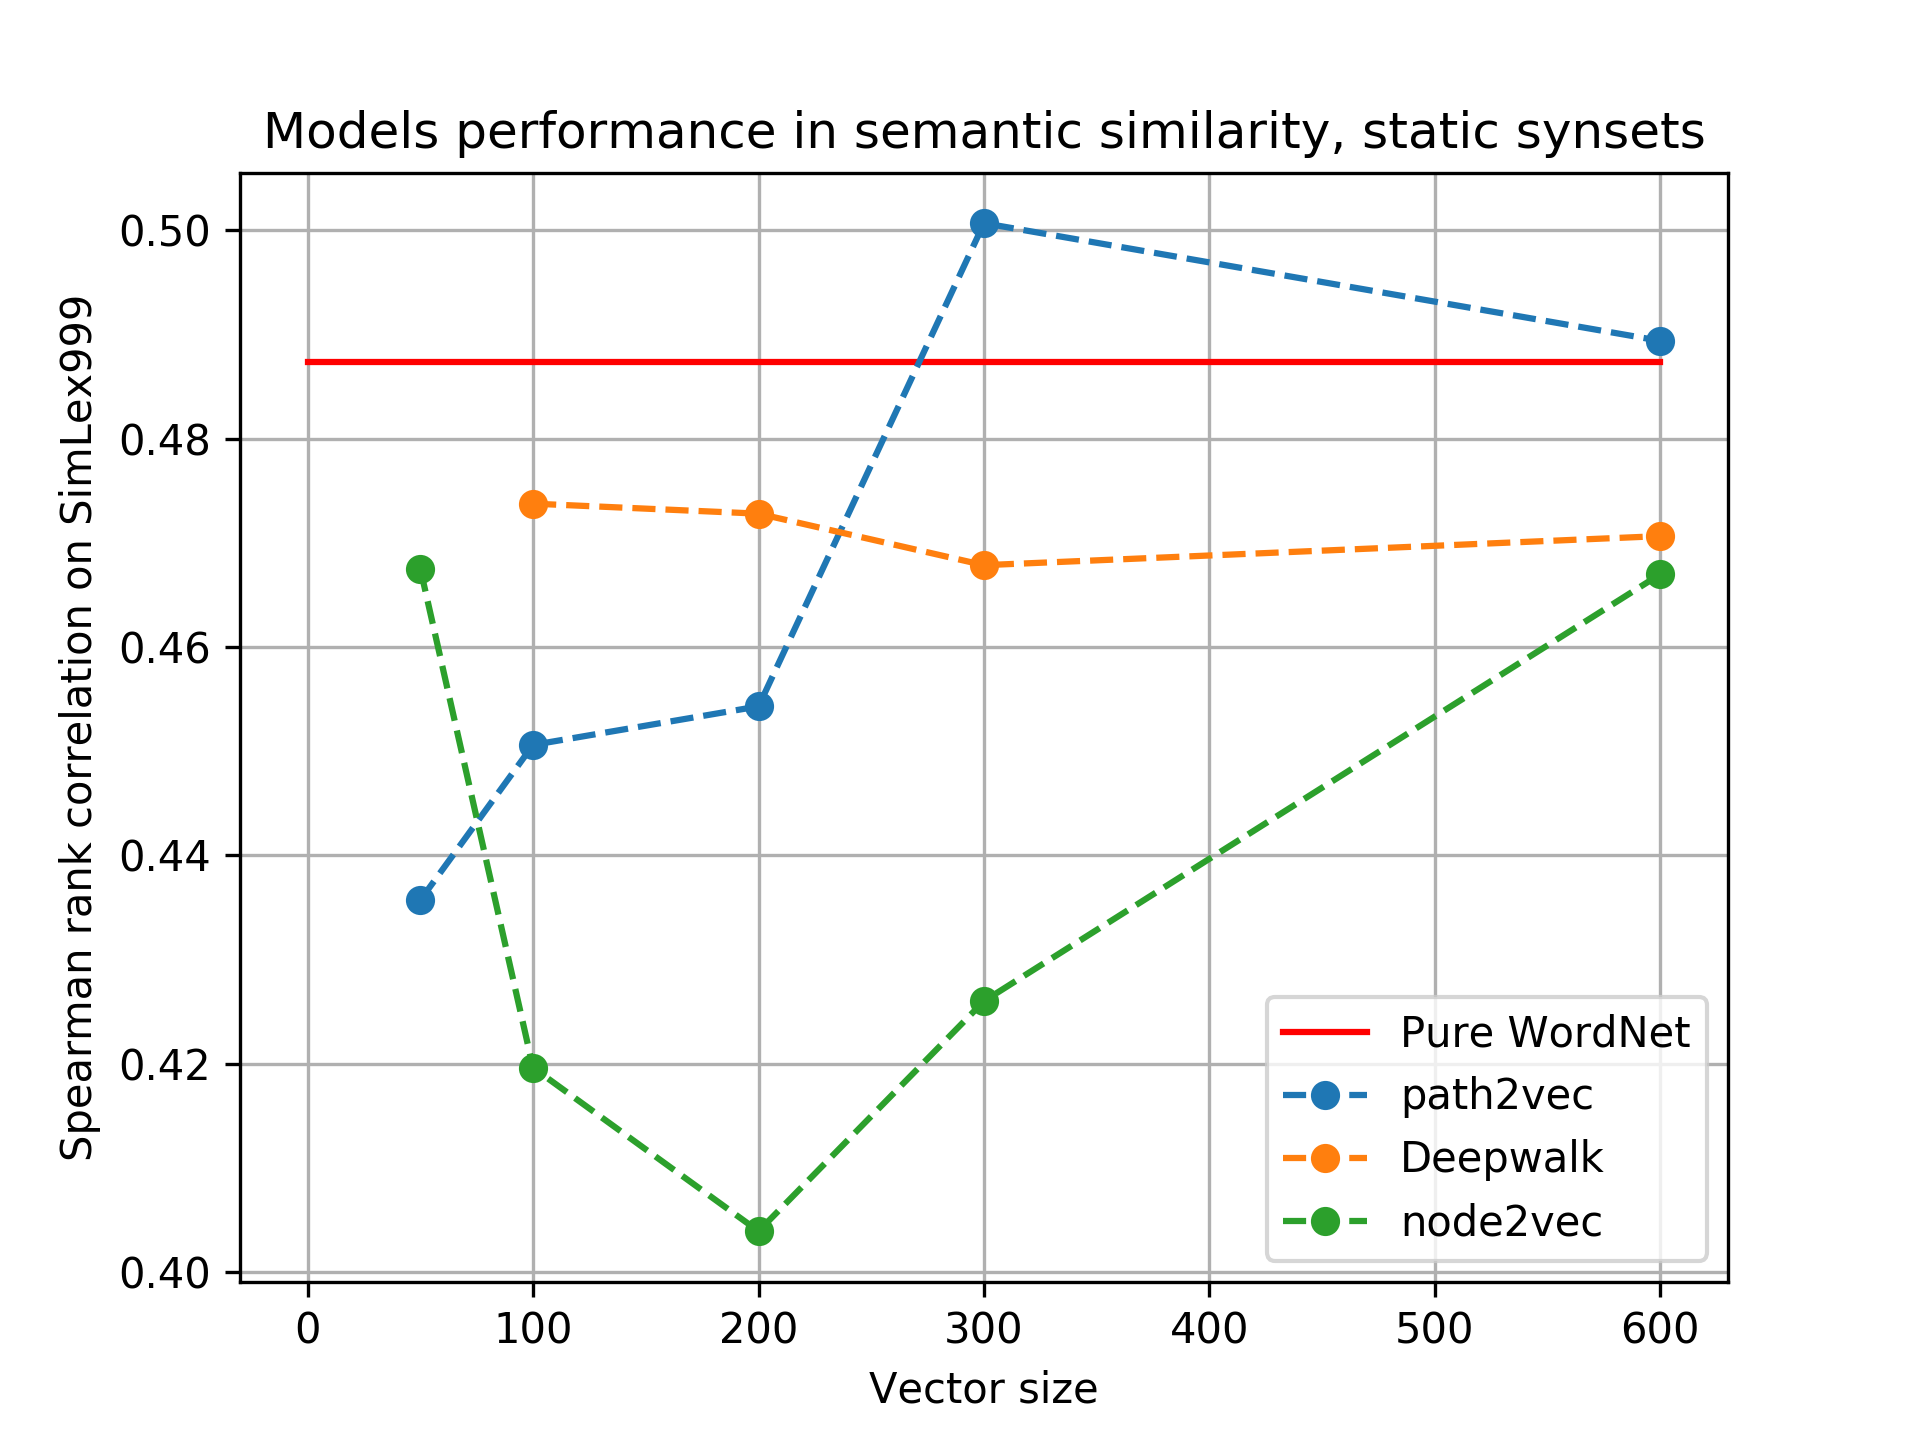
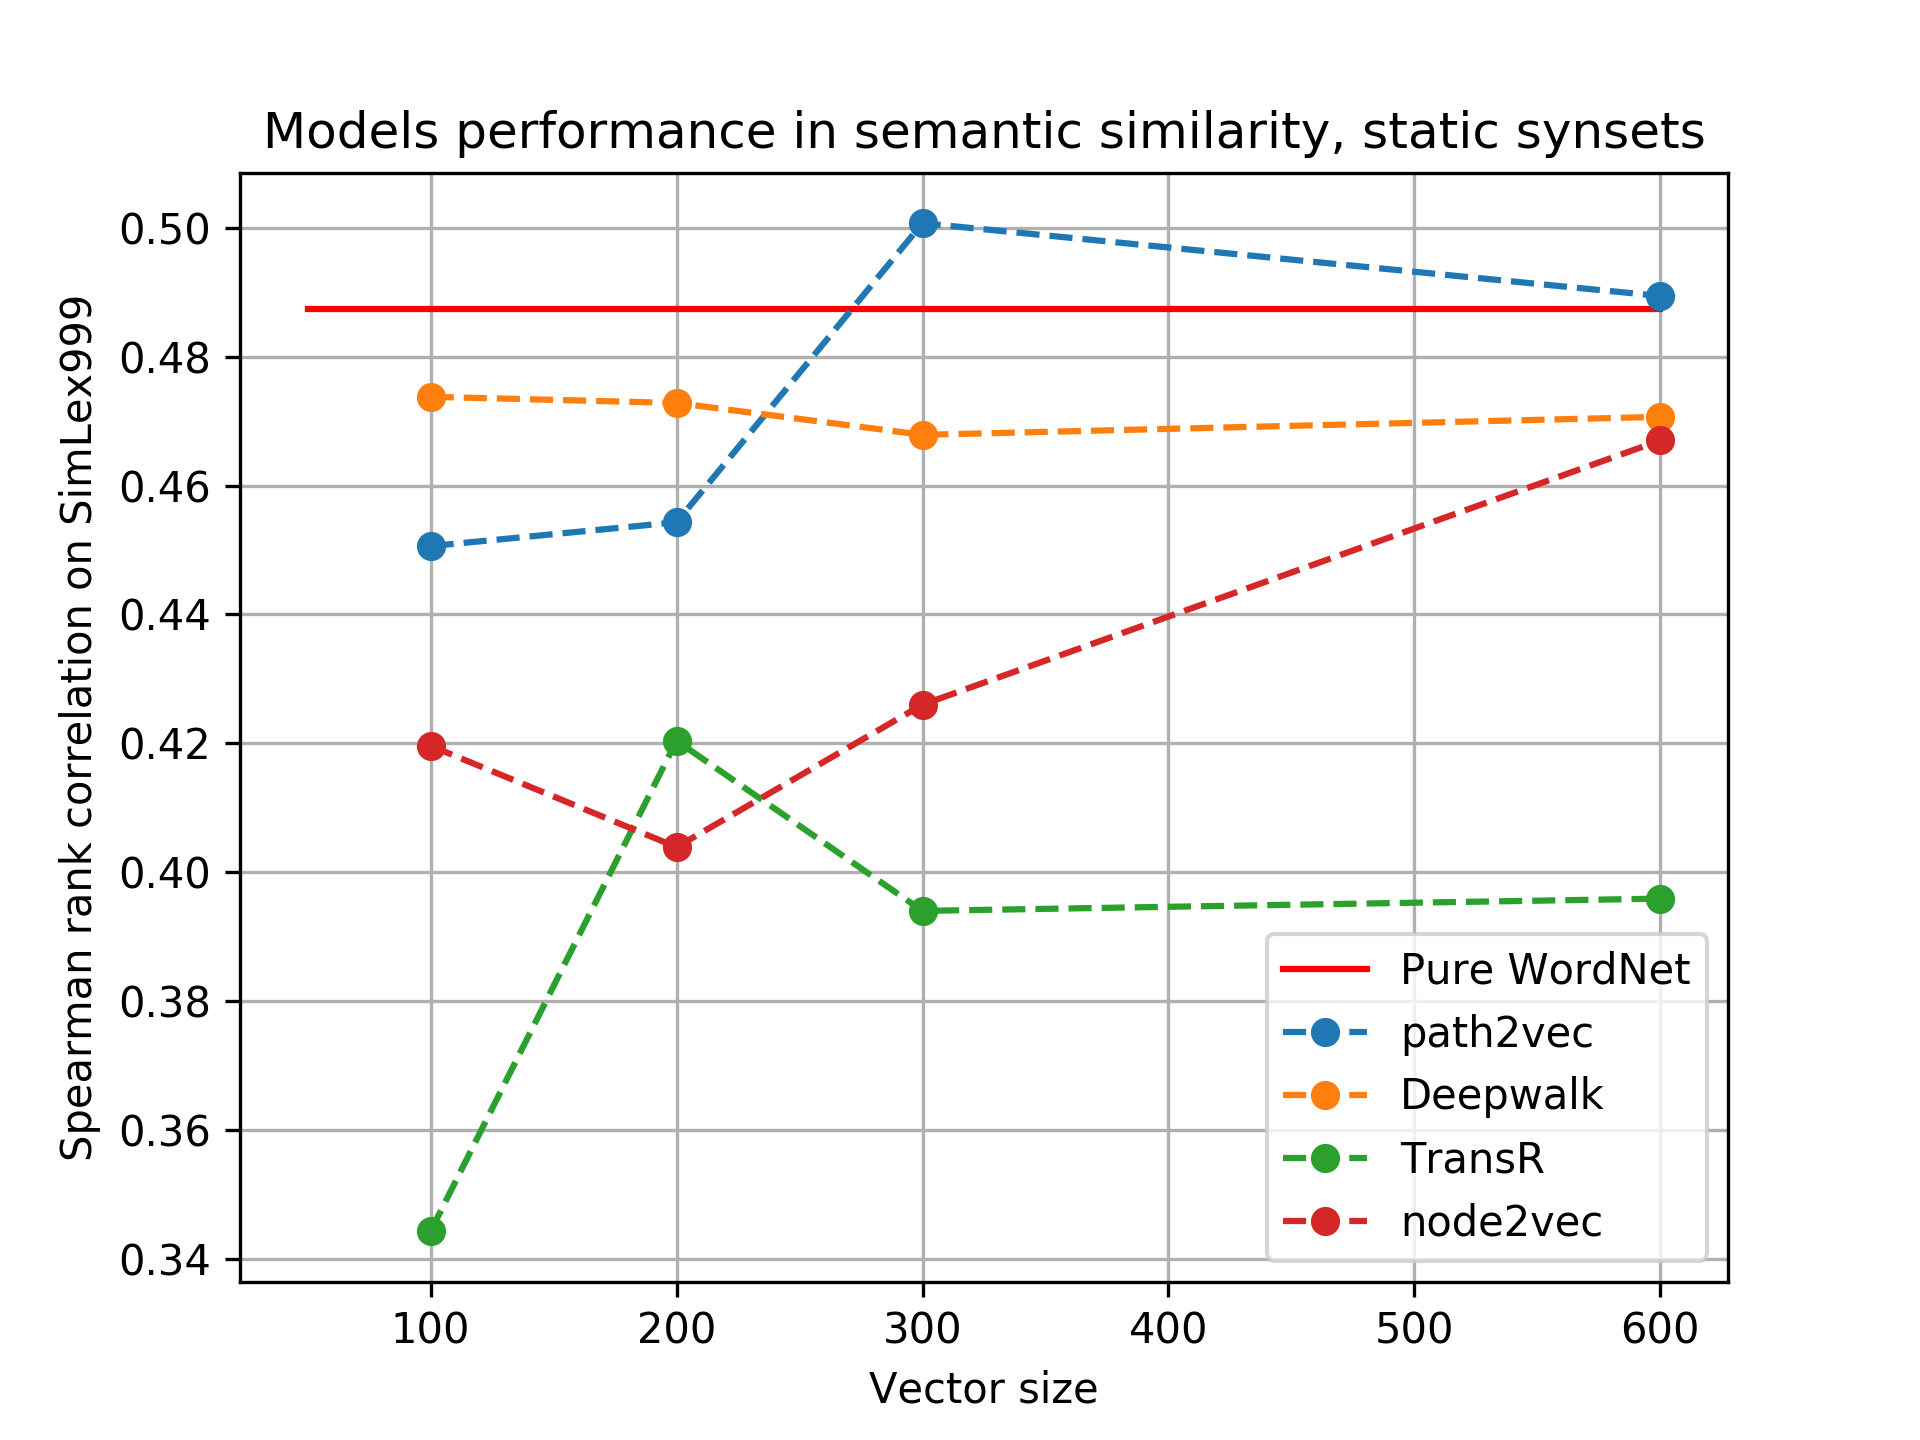
WuP plots

diff --git a/results/draw.py b/results/draw.py
@@ -21,10 +21,12 @@ for line in sys.stdin:
     (corpus, vsize, bsize, lrate, wordnet, human, dynamic_human) = res
     if lrate != '0.005':
         continue
-    if float(bsize) < 100 or float(bsize) > 366:
+    if float(bsize) < 100 or float(bsize) > 366 or float(bsize) == 265:
         continue
     lrates.append(lrate)
     vsize = float(vsize)
+    if vsize < 100:
+        continue
     vectorsizes.append(vsize)
     bsize = float(bsize)
     batchsizes.append(bsize)
@@ -50,7 +52,7 @@ human_scores = np.array(human_scores)
 dhuman_scores = np.array(dhuman_scores)
 
 plt.figure()
-plt.plot((0, np.max(vectorsizes)), (graph_score, graph_score), 'red', label='Pure WordNet')
+plt.plot((50, np.max(vectorsizes)), (graph_score, graph_score), 'red', label='Pure WordNet')
 for batch in sorted(diff_bsizes):
     x = vectorsizes[batchsizes == batch]
     y = human_scores[batchsizes == batch]
@@ -58,6 +60,10 @@ for batch in sorted(diff_bsizes):
         label = 'Deepwalk'
     elif int(batch) == 366:
         label = 'node2vec'
+    elif int(batch) == 266:
+        label = 'TransR'
+    elif int(batch) == 265:
+        label = 'TransD'
     else:
         #label = 'path2vec, batch ' + str(int(batch))
         label = 'path2vec'
@@ -72,7 +78,7 @@ plt.savefig(corpus + '_static_synsets.png', dpi=300)
 plt.close()
 
 plt.figure()
-plt.plot((0, np.max(vectorsizes)), (graph_score, graph_score), 'red', label='Pure WordNet')
+plt.plot((50, np.max(vectorsizes)), (graph_score, graph_score), 'red', label='Pure WordNet')
 for batch in sorted(diff_bsizes):
     x = vectorsizes[batchsizes == batch]
     y = dhuman_scores[batchsizes == batch]
@@ -80,6 +86,10 @@ for batch in sorted(diff_bsizes):
         label = 'Deepwalk'
     elif int(batch) == 366:
         label = 'node2vec'
+    elif int(batch) == 266:
+        label = 'TransR'
+    elif int(batch) == 265:
+        label = 'TransD'
     else:
         #label = 'path2vec, batch ' + str(int(batch))
         label = 'path2vec'

diff --git a/wsd/graph_wsd_test_v2.py b/wsd/graph_wsd_test_v2.py
@@ -13,7 +13,7 @@ from nltk.corpus import wordnet_ic
 import xml.etree.ElementTree as ElementTree
 from collections import OrderedDict
 import codecs
-from sklearn.metrics import f1_score, precision_score, recall_score
+from sklearn.metrics import f1_score, precision_score, recall_score, accuracy_score, classification_report
 import gensim
 import logging
 from hamming_cython import hamming_sum
@@ -281,8 +281,14 @@ if __name__ == "__main__":
 
     assert len(wsd_output) == len(gold_output)
 
+    print(len(wsd_output))
+
     f1 = f1_score(gold_output, wsd_output, average=AVG_METHOD)
+    macro_f1 = f1_score(gold_output, wsd_output, average='macro')
     precision = precision_score(gold_output, wsd_output, average=AVG_METHOD)
     recall = recall_score(gold_output, wsd_output, average=AVG_METHOD)
+    accuracy = accuracy_score(gold_output, wsd_output)
 
-    print('F-score: %1.4f' % f1, '  Precision: %1.4f' % precision, '  Recall: %1.4f' % recall)
+    print('F-score: %1.4f' % f1, '  Precision: %1.4f' % precision, '  Recall: %1.4f' % recall, '    Accuracy: %1.4f' % accuracy)
+    # print(classification_report(gold_output, wsd_output))
+    print('Macro F-score: %1.4f' % macro_f1)
